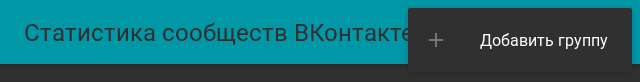
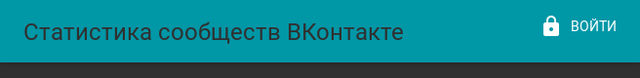
Update screenshots

diff --git a/readme.md b/readme.md
@@ -192,9 +192,13 @@ Redux state in the JSON Schema format: [docs/state.json](docs/state.json).
 
 ## Screenshots
 
-![Group list](screenshots/screenshot_07.png)
+![Group list (with the dark theme)](screenshots/screenshot_07.00.png)
 
-Group list
+Group list (with the dark theme)
+
+![Group list (with the light theme)](screenshots/screenshot_07.01.png)
+
+Group list (with the light theme)
 
 ![Fetching state](screenshots/screenshot_08.png)
 
@@ -208,9 +212,13 @@ Failure state
 
 Add group dialog
 
-![Main menu](screenshots/screenshot_11.png)
+![Main menu (unauthorized)](screenshots/screenshot_11.png)
 
-Main menu
+Main menu (unauthorized)
+
+![Main menu (authorized)](screenshots/screenshot_12.png)
+
+Main menu (authorized)
 
 ## License
 
